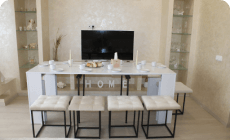
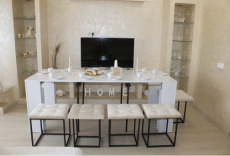
chenged img rodos

diff --git a/index.html b/index.html
@@ -60,11 +60,11 @@
           <article class="card-short">
             <img
               srcset="
-                ./images/card/mob/IMG_8510.JPG 230w,
-                ./images/card/mob/IMG_8510.JPG 460w
+              ./images/card/mob/rodos_230.png 230w,
+              ./images/card/mob/rodos_230@2.png 460w
               "
               sizes="(min-width: 1440px) 700px, (min-width: 768px) 590px, (min-width: 420px) 230px, 100vw"
-              src="./images/card/mob/IMG_8510.JPG"
+              src="./images/card/mob/rodos_230.png"
               alt="Родос"
             />
             <h4 class="title-card">Стіл</h4>
